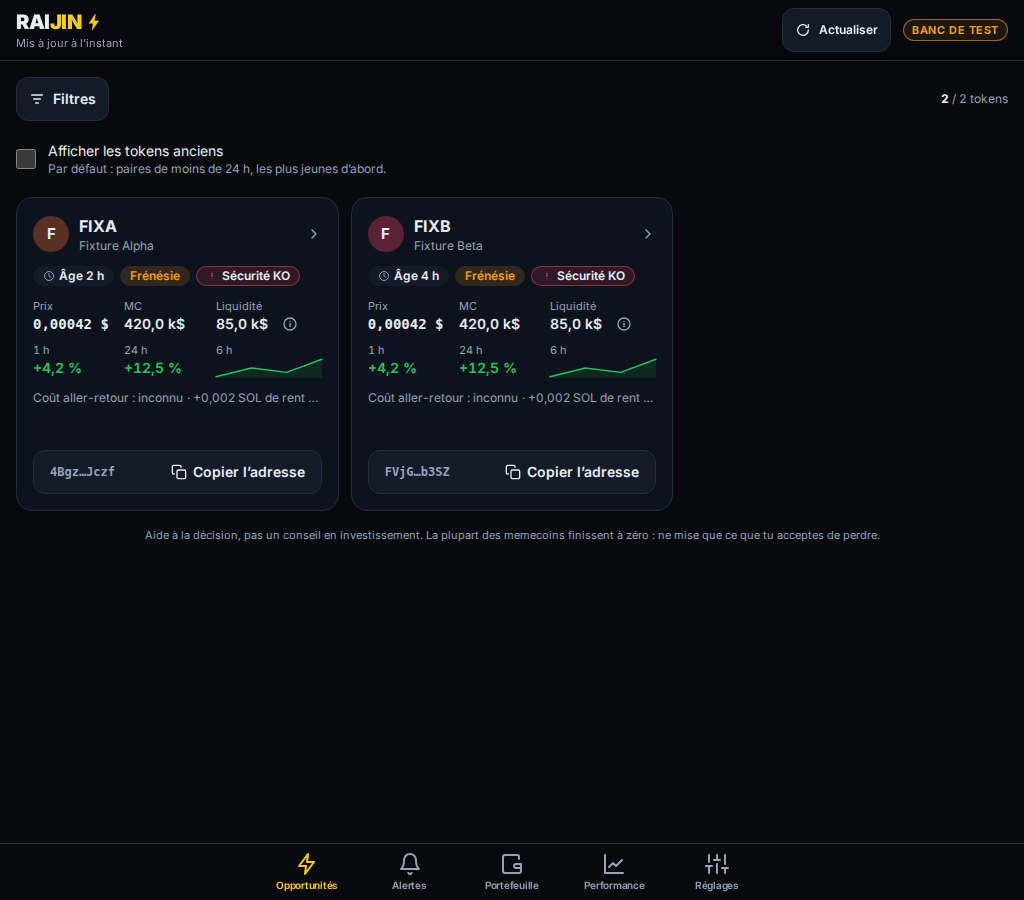
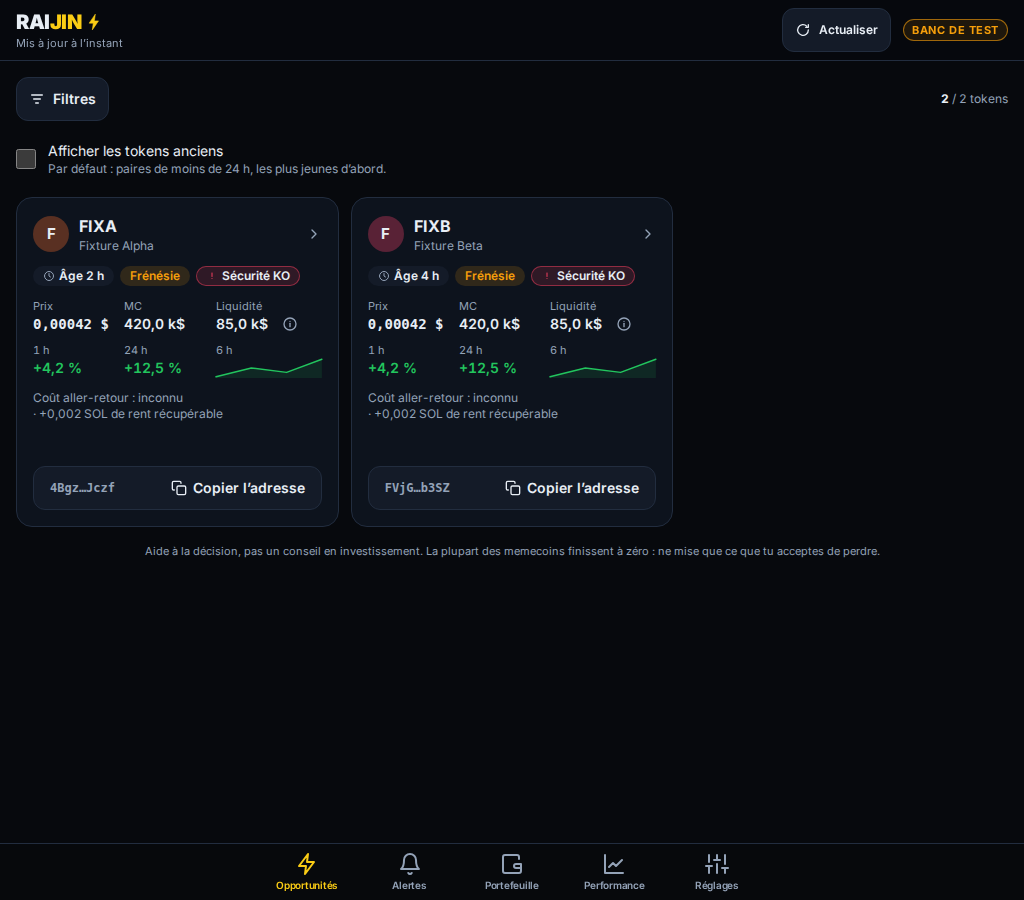
fix(banc): plus de tailles en dur (échelle et tokens du thème), « Coût aller-retour » lisible à 1440 px

Changed region(s): [[0.0312, 0.4978, 0.875, 0.6222], [0.0312, 0.4356, 0.3125, 0.4667], [0.375, 0.4356, 0.625, 0.4667]]

diff --git a/apps/raijin-banc-de-test/src/app/features/opportunities/components/price-chart.ts b/apps/raijin-banc-de-test/src/app/features/opportunities/components/price-chart.ts
@@ -24,7 +24,7 @@ let nextId = 0;
           @for (r of ranges; track r) {
             <button
               type="button"
-              class="press min-h-11 min-w-12 rounded-[10px] px-3 text-xs font-semibold tabular-nums slashed-zero"
+              class="press min-h-11 min-w-12 rounded-control px-3 text-xs font-semibold tabular-nums slashed-zero"
               [class.seg-active]="store.range() === r"
               [class.text-muted]="store.range() !== r"
               [attr.aria-pressed]="store.range() === r"
@@ -38,15 +38,15 @@ let nextId = 0;
       </div>
 
       @if (store.loading()) {
-        <div data-chart-skeleton role="status" class="skeleton h-[200px] rounded-lg">
+        <div data-chart-skeleton role="status" class="skeleton h-50 rounded-lg">
           <span class="sr-only">Chargement du graphique…</span>
         </div>
       } @else if (store.failed()) {
-        <div data-chart-error role="status" class="flex h-[200px] items-center justify-center rounded-lg border border-dashed border-line px-4 text-center text-sm text-muted">
+        <div data-chart-error role="status" class="flex h-50 items-center justify-center rounded-lg border border-dashed border-line px-4 text-center text-sm text-muted">
           Historique indisponible pour l’instant.
         </div>
       } @else if (store.points().length < minPoints) {
-        <div data-chart-empty class="flex h-[200px] flex-col items-center justify-center gap-1 rounded-lg border border-dashed border-line px-4 text-center">
+        <div data-chart-empty class="flex h-50 flex-col items-center justify-center gap-1 rounded-lg border border-dashed border-line px-4 text-center">
           <p class="text-sm font-semibold">Pas assez d’historique</p>
           <p class="text-xs text-muted">Le graphique se remplit à chaque scan (toutes les 2 min).</p>
         </div>

diff --git a/apps/raijin-banc-de-test/src/app/features/opportunities/components/roundtrip-line.ts b/apps/raijin-banc-de-test/src/app/features/opportunities/components/roundtrip-line.ts
@@ -6,8 +6,8 @@ export const ROUNDTRIP_TONE_TEXT: Record<RoundtripTone, string> = { bull: 'coût
 
 /**
  * Card line: « Coût aller-retour : 0,0013 SOL (2,6 %) · +0,002 SOL de rent récupérable », the cost
- * coloured by net cost / stake. Always ONE line (equal-height cards): the cost part never shrinks,
- * the rent part is truncated with an ellipsis on narrow screens (full breakdown in the detail).
+ * coloured by net cost / stake. Nothing is ever cut: the cost part stays on one line and the rent
+ * part wraps to the next line when the card is too narrow (full breakdown in the detail).
  */
 @Component({
   selector: 'app-roundtrip-line',
@@ -15,9 +15,9 @@ export const ROUNDTRIP_TONE_TEXT: Record<RoundtripTone, string> = { bull: 'coût
   host: { class: 'block min-w-0' },
   template: `
     @let v = view();
-    <p class="flex min-w-0 gap-1 whitespace-nowrap slashed-zero" data-roundtrip>
+    <p class="flex min-w-0 flex-wrap gap-x-1 slashed-zero" data-roundtrip>
       <span
-        class="shrink-0"
+        class="shrink-0 whitespace-nowrap"
         data-roundtrip-cost
         [class.text-bull]="v.tone === 'bull'"
         [class.text-warn]="v.tone === 'warn'"
@@ -25,7 +25,7 @@ export const ROUNDTRIP_TONE_TEXT: Record<RoundtripTone, string> = { bull: 'coût
         [class.text-muted]="v.tone === null"
         >{{ v.costText }}@if (v.tone; as tone) {<span class="sr-only"> ({{ toneText[tone] }})</span>}</span
       >
-      <span class="min-w-0 truncate text-muted" data-roundtrip-rent>{{ v.rentText }}</span>
+      <span class="min-w-0 text-muted" data-roundtrip-rent>{{ v.rentText }}</span>
     </p>
   `,
 })

diff --git a/apps/raijin-banc-de-test/src/app/features/opportunities/components/token-card.spec.ts b/apps/raijin-banc-de-test/src/app/features/opportunities/components/token-card.spec.ts
@@ -78,12 +78,13 @@ describe('TokenCard', () => {
     expect(el.querySelector('[data-roundtrip-rent]')?.textContent?.trim()).toBe('· +0,002 SOL de rent récupérable');
   });
 
-  it('keeps the round-trip line on one line: cost never shrinks, rent truncates', () => {
+  it('never cuts the round-trip line: cost stays whole, rent wraps instead of truncating', () => {
     const el = render(token({ roundtrip_cost_pct: 2.4 }));
-    expect(line(el)?.classList).toContain('whitespace-nowrap');
-    expect(line(el)?.classList).not.toContain('flex-wrap');
+    expect(line(el)?.classList).toContain('flex-wrap');
+    expect(line(el)?.classList).not.toContain('whitespace-nowrap');
     expect(el.querySelector('[data-roundtrip-cost]')?.classList).toContain('shrink-0');
-    expect(el.querySelector('[data-roundtrip-rent]')?.classList).toContain('truncate');
+    expect(el.querySelector('[data-roundtrip-cost]')?.classList).toContain('whitespace-nowrap');
+    expect(el.querySelector('[data-roundtrip-rent]')?.classList).not.toContain('truncate');
   });
 
   it('shows the data-confidence badge as text, nothing when unknown', () => {

diff --git a/apps/raijin-banc-de-test/src/app/shared/ui/sheet.ts b/apps/raijin-banc-de-test/src/app/shared/ui/sheet.ts
@@ -29,7 +29,7 @@ const LAYOUT_CLASS: Record<SheetLayout, string> = {
   bottom: 'max-w-lg',
   // Mobile: definite height (a content-sized column flex panel can collapse on iOS Safari); md: side panel.
   responsive:
-    'h-[88dvh] md:h-auto md:inset-y-0 md:right-0 md:left-auto md:mx-0 md:max-h-none md:w-[26rem] md:animate-panel-in md:rounded-none md:border-y-0 md:border-r-0 md:safe-top md:motion-reduce:animate-none',
+    'h-[88dvh] md:h-auto md:inset-y-0 md:right-0 md:left-auto md:mx-0 md:max-h-none md:w-104 md:animate-panel-in md:rounded-none md:border-y-0 md:border-r-0 md:safe-top md:motion-reduce:animate-none',
 };
 
 /**
@@ -55,7 +55,7 @@ const LAYOUT_CLASS: Record<SheetLayout, string> = {
       (cancel)="onCancel($event)"
       (scroll)="onDialogScroll()"
     >
-      <div data-sheet-backdrop class="absolute inset-0 animate-fade-in bg-base/70 backdrop-blur-[2px] motion-reduce:animate-none"></div>
+      <div data-sheet-backdrop class="absolute inset-0 animate-fade-in bg-base/70 backdrop-blur-2xs motion-reduce:animate-none"></div>
       <div
         #panel
         tabindex="-1"

diff --git a/apps/raijin-banc-de-test/src/styles.css b/apps/raijin-banc-de-test/src/styles.css
@@ -75,6 +75,13 @@
   /* Height of the bottom tab bar, without the home-indicator inset */
   --spacing-nav: 3.5rem;
 
+  /* Segmented control radius (chart period buttons), brand --radius-md */
+  --radius-control: 10px;
+  /* Faint blur behind the sheet backdrop */
+  --blur-2xs: 2px;
+  /* Narrow-phone breakpoint: full labels from 360 px (xs:), compact below (max-xs:) */
+  --breakpoint-xs: 360px;
+
   --animate-sheet-up: sheet-up 220ms cubic-bezier(0.2, 0.8, 0.2, 1);
   --animate-panel-in: panel-in 220ms cubic-bezier(0.2, 0.8, 0.2, 1);
   --animate-fade-in: fade-in 180ms ease-out;
@@ -159,6 +166,11 @@
 }
 
 /* Safe areas (notch, Dynamic Island, home indicator) — needs viewport-fit=cover */
+/* Inline glyph sized relative to the surrounding text (logotype bolt) */
+@utility size-glyph {
+  width: 0.9em;
+  height: 0.9em;
+}
 @utility safe-top {
   padding-top: env(safe-area-inset-top);
 }

diff --git a/apps/raijin-banc-de-test/src/app/features/opportunities/components/price-chart-plot.ts b/apps/raijin-banc-de-test/src/app/features/opportunities/components/price-chart-plot.ts
@@ -43,7 +43,7 @@ const LABEL_CLASS: Record<LabelTone, string> = {
         (pointerleave)="onPointerLeave($event)"
         (pointercancel)="clearScrub()"
       >
-        <svg aria-hidden="true" focusable="false" class="block h-[200px] w-full" [attr.viewBox]="'0 0 ' + g.width + ' ' + g.height">
+        <svg aria-hidden="true" focusable="false" class="block h-50 w-full" [attr.viewBox]="'0 0 ' + g.width + ' ' + g.height">
           <line x1="0" [attr.x2]="g.plotRight" [attr.y1]="g.plotBottom" [attr.y2]="g.plotBottom" class="stroke-line" stroke-width="1" />
           <path [attr.d]="g.area" class="fill-fg/5" />
           <path data-price-line [attr.d]="g.line" class="fill-none stroke-fg" stroke-width="1.75" stroke-linejoin="round" stroke-linecap="round" />

diff --git a/apps/raijin-banc-de-test/src/app/core/layout/bottom-nav.ts b/apps/raijin-banc-de-test/src/app/core/layout/bottom-nav.ts
@@ -46,8 +46,8 @@ const SUBSET: IsActiveMatchOptions = { paths: 'subset', queryParams: 'ignored', 
             >
               <app-icon [name]="tab.icon" class="size-6" />
               @if (tab.short) {
-                <span class="max-w-full truncate px-0.5 min-[360px]:hidden">{{ tab.short }}</span>
-                <span class="hidden max-w-full truncate px-0.5 min-[360px]:inline">{{ tab.label }}</span>
+                <span class="max-w-full truncate px-0.5 xs:hidden">{{ tab.short }}</span>
+                <span class="hidden max-w-full truncate px-0.5 xs:inline">{{ tab.label }}</span>
               } @else {
                 <span class="max-w-full truncate px-0.5">{{ tab.label }}</span>
               }

diff --git a/apps/raijin-banc-de-test/src/app/shared/ui/skeleton.ts b/apps/raijin-banc-de-test/src/app/shared/ui/skeleton.ts
@@ -60,7 +60,7 @@ export type SkeletonVariant = 'token-card' | 'candidate-card' | 'wallet' | 'rows
                 <div class="skeleton size-12 rounded-full"></div>
                 <div class="flex-1 space-y-1.5"><div class="skeleton h-5 w-28"></div><div class="skeleton h-3 w-40"></div></div>
               </div>
-              <div class="skeleton h-[200px] w-full rounded-lg"></div>
+              <div class="skeleton h-50 w-full rounded-lg"></div>
               <div class="grid grid-cols-2 gap-3">
                 @for (c of six; track c) {
                   <div class="space-y-1"><div class="skeleton h-2.5 w-16"></div><div class="skeleton h-4 w-24"></div></div>

diff --git a/apps/raijin-banc-de-test/src/app/features/opportunities/components/token-card-stats.ts b/apps/raijin-banc-de-test/src/app/features/opportunities/components/token-card-stats.ts
@@ -18,7 +18,7 @@ import { LiquidityInfo } from './liquidity-info';
     <dl class="grid grid-cols-[minmax(0,3fr)_minmax(0,3fr)_minmax(0,4fr)] gap-x-3 gap-y-2 tabular-nums slashed-zero" data-stats>
       <div class="min-w-0">
         <dt class="text-label text-muted">Prix</dt>
-        <dd class="truncate font-mono text-xs font-semibold min-[360px]:text-sm" data-price>
+        <dd class="truncate font-mono text-xs font-semibold xs:text-sm" data-price>
           <span aria-hidden="true">{{ compactPrice(t.price_usd) }}</span><span class="sr-only">{{ fmtPrice(t.price_usd) }}</span>
         </dd>
       </div>

diff --git a/apps/raijin-banc-de-test/src/app/core/layout/bottom-nav.spec.ts b/apps/raijin-banc-de-test/src/app/core/layout/bottom-nav.spec.ts
@@ -37,7 +37,7 @@ describe('BottomNav', () => {
     // below 360 px the first tab reads « Tokens » (still a visible text name, never an unnamed icon)
     const short = links[0]!.querySelector('span');
     expect(short?.textContent?.trim()).toBe('Tokens');
-    expect(short?.classList).toContain('min-[360px]:hidden');
+    expect(short?.classList).toContain('xs:hidden');
     expect(links.map((a) => a.getAttribute('href'))).toEqual(['/', '/alerts', '/portfolio', '/performance', '/settings']);
     for (const a of links) expect(a.querySelector('svg')?.getAttribute('aria-hidden')).toBe('true');
   });

diff --git a/apps/raijin-banc-de-test/src/app/features/opportunities/components/refresh-button.ts b/apps/raijin-banc-de-test/src/app/features/opportunities/components/refresh-button.ts
@@ -9,7 +9,7 @@ import { Icon } from '../../../shared/ui/icon';
   template: `
     <button type="button" class="btn-ghost px-3 text-xs" [disabled]="loading()" [attr.aria-busy]="loading()" (click)="refresh.emit()">
       <app-icon name="refresh" class="size-4 motion-reduce:animate-none" [class.animate-spin]="loading()" />
-      <span class="max-[359px]:sr-only">{{ loading() ? 'Chargement…' : 'Actualiser' }}</span>
+      <span class="max-xs:sr-only">{{ loading() ? 'Chargement…' : 'Actualiser' }}</span>
     </button>
   `,
 })

diff --git a/apps/raijin-banc-de-test/src/app/shared/ui/brand.ts b/apps/raijin-banc-de-test/src/app/shared/ui/brand.ts
@@ -7,6 +7,6 @@ import { BoltMark } from './bolt-mark';
   imports: [BoltMark],
   changeDetection: ChangeDetectionStrategy.OnPush,
   host: { class: 'inline-flex items-center gap-1' },
-  template: `<span>RAI<span class="text-accent">JIN</span></span><app-bolt-mark class="size-[0.9em]" tone="brand" />`,
+  template: `<span>RAI<span class="text-accent">JIN</span></span><app-bolt-mark class="size-glyph" tone="brand" />`,
 })
 export class Brand {}
